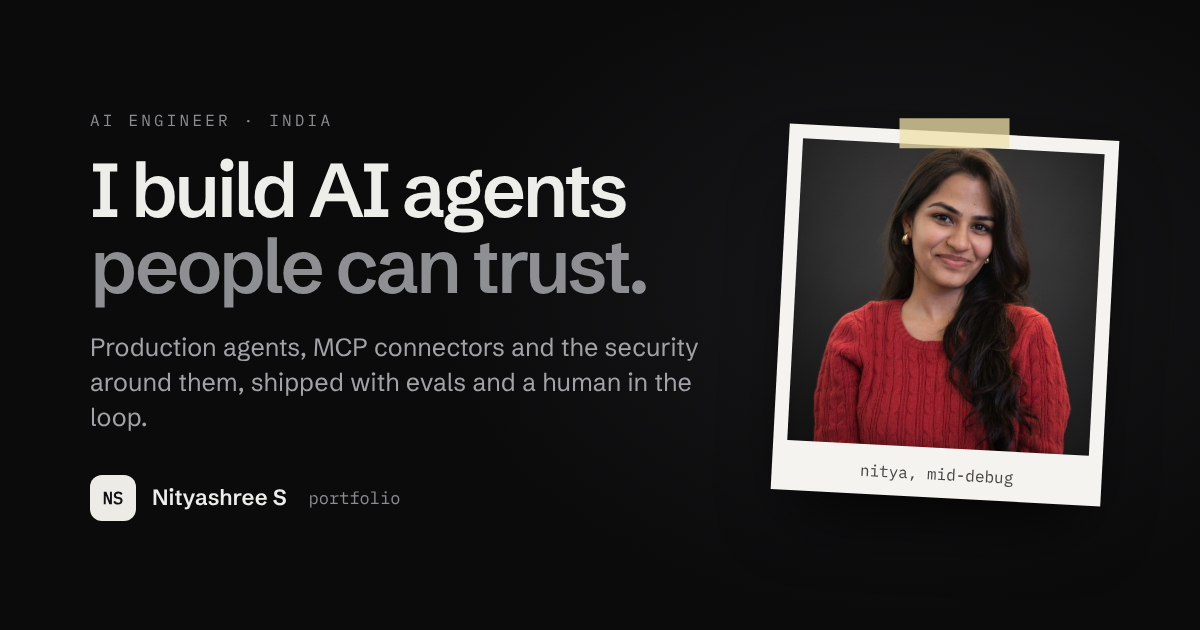
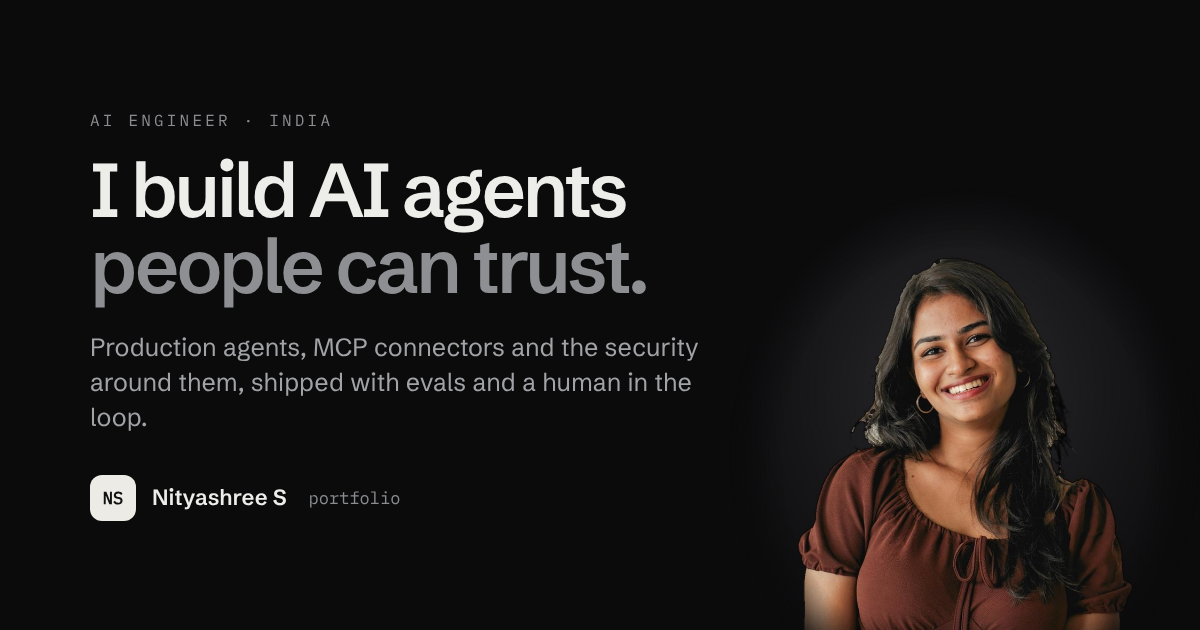
Hero leads with the growth story; new link-preview image; drop unused photo
- Headline is now 'From payments data to production AI agents' with the about text
- 'I build AI agents people can trust' moves to the build section heading
- og.png uses the new portrait; link-preview description updated
- Removed the unused 900 KB headshot.png

Claude-Session: https://claude.ai/code/session_013deH6ACdMXxdjzYD6Te7cP

Changed region(s): [[0.6167, 0.181, 0.9558, 1.0]]

diff --git a/src/styles/global.css b/src/styles/global.css
@@ -817,3 +817,12 @@ html { scroll-behavior: smooth; }
 .ls-list p { margin: 0; color: var(--ink-2); font-size: 15px; line-height: 1.6; }
 @media (max-width: 860px) { .ls-list { grid-template-columns: 1fr; } }
 @media (max-width: 680px) { .glance { grid-template-columns: 1fr; gap: 14px; } .p-chip { white-space: normal; width: max-content; max-width: 88%; text-align: left; } }
+/* hero headline is the growth line now: a touch smaller so it fits two lines */
+.h-open h1 { font-size: clamp(40px, 4.4vw, 72px); }
+/* path follows the hero directly */
+.h-path { border-top: 0; padding-top: clamp(40px, 6vw, 80px); }
+@media (max-width: 680px) {
+  .h-open .h-cta a[href="#about"] { display: inline-flex; }
+  .h-open .h-cta a[href="#work"] { display: none; }
+  .h-open h1 { font-size: clamp(32px, 9vw, 40px); }
+}
